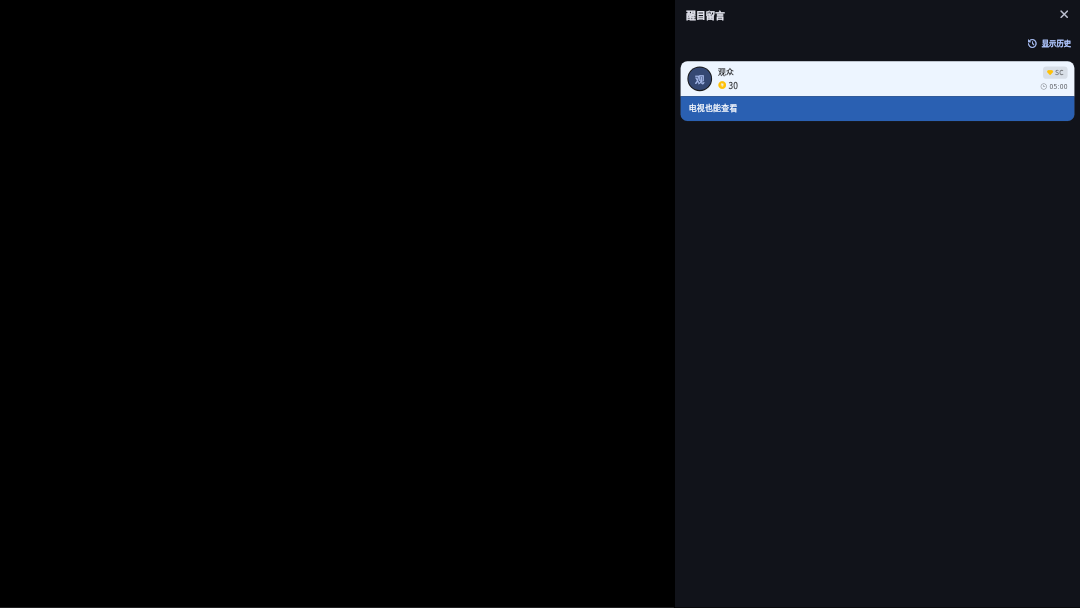
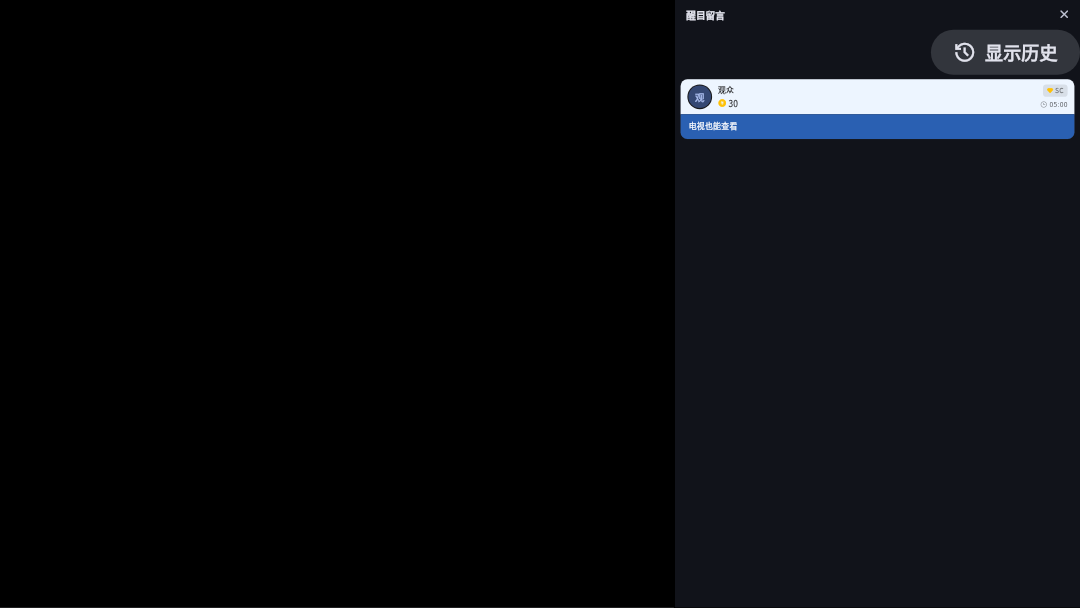
[V02.23] Make TV super-chat history reachable with the remote

Changed region(s): [[0.6111, 0.0312, 1.0, 0.25]]

diff --git a/apps/pure_live/lib/tv/room/tv_super_chat_panel.dart b/apps/pure_live/lib/tv/room/tv_super_chat_panel.dart
@@ -1,8 +1,11 @@
 import 'package:flutter/material.dart';
 import 'package:flutter/services.dart';
+import 'package:live_ui/live_ui.dart';
 import 'package:pure_live/features/live_play/danmaku/super_chat_panel.dart';
 import 'package:pure_live/features/live_play/logic/room_controller.dart';
+import 'package:pure_live/i18n/i18n.dart';
 import 'package:pure_live/tv/tv_theme.dart';
+import 'package:pure_live/tv/widgets/tv_button.dart';
 
 /// The same super-chat panel with remote scrolling, without channel keys.
 class TvSuperChatPanel extends StatefulWidget {
@@ -24,19 +27,30 @@ class TvSuperChatPanel extends StatefulWidget {
 
 class _TvSuperChatPanelState extends State<TvSuperChatPanel> {
   final ScrollController _scroll = ScrollController();
+  final FocusNode _history = FocusNode(debugLabel: 'tv super chat history');
 
   @override
   void dispose() {
     _scroll.dispose();
+    _history.dispose();
     super.dispose();
   }
 
   KeyEventResult _key(FocusNode node, KeyEvent event) {
     if (event is KeyUpEvent) return KeyEventResult.ignored;
     final key = event.logicalKey;
+    if (key == LogicalKeyboardKey.arrowLeft || key == LogicalKeyboardKey.arrowRight) {
+      _history.requestFocus();
+      return KeyEventResult.handled;
+    }
     final down = key == LogicalKeyboardKey.arrowDown || key == LogicalKeyboardKey.pageDown;
     final up = key == LogicalKeyboardKey.arrowUp || key == LogicalKeyboardKey.pageUp;
     if (!down && !up) return KeyEventResult.ignored;
+    if (up && (!_scroll.hasClients || _scroll.offset == 0)) {
+      _history.requestFocus();
+      return KeyEventResult.handled;
+    }
+    widget.focusNode?.requestFocus();
     if (_scroll.hasClients) {
       final page = key == LogicalKeyboardKey.pageDown || key == LogicalKeyboardKey.pageUp;
       final step = page ? _scroll.position.viewportDimension * 0.8 : 120.0;
@@ -57,6 +71,13 @@ class _TvSuperChatPanelState extends State<TvSuperChatPanel> {
         key: const ValueKey('panel-super-chats'),
         controller: widget.controller,
         scrollController: _scroll,
+        historyControlBuilder: (shown, toggle) => TvButton(
+          key: const ValueKey('super-chat-history-toggle'),
+          focusNode: _history,
+          label: i18n(shown ? 'super_chat_hide_history' : 'super_chat_show_history'),
+          icon: AppIcons.watchHistory,
+          onTap: toggle,
+        ),
         onClose: widget.onClose,
       ),
     ),

diff --git a/apps/pure_live/lib/features/live_play/danmaku/super_chats.dart b/apps/pure_live/lib/features/live_play/danmaku/super_chats.dart
@@ -29,6 +29,7 @@ class SuperChatList extends StatefulWidget {
     required this.now,
     this.history,
     this.scrollController,
+    this.historyControlBuilder,
     this.platformName = '',
     this.platformHasSuperChats = true,
     super.key,
@@ -42,6 +43,9 @@ class SuperChatList extends StatefulWidget {
 
   /// Optional external scrolling, for example a TV remote's arrow keys.
   final ScrollController? scrollController;
+
+  /// Optional input-specific control; the list still owns history visibility.
+  final Widget Function(bool shown, VoidCallback toggle)? historyControlBuilder;
 
   /// The clock.
   final DateTime Function() now;
@@ -125,12 +129,14 @@ class _SuperChatListState extends State<SuperChatList> {
       children: [
         Align(
           alignment: Alignment.centerRight,
-          child: TextButton.icon(
-            key: const ValueKey('super-chat-history-toggle'),
-            onPressed: () => setState(() => _showHistory = !_showHistory),
-            icon: const Icon(AppIcons.watchHistory, size: 18),
-            label: Text(i18n(_showHistory ? 'super_chat_hide_history' : 'super_chat_show_history')),
-          ),
+          child:
+              widget.historyControlBuilder?.call(_showHistory, () => setState(() => _showHistory = !_showHistory)) ??
+              TextButton.icon(
+                key: const ValueKey('super-chat-history-toggle'),
+                onPressed: () => setState(() => _showHistory = !_showHistory),
+                icon: const Icon(AppIcons.watchHistory, size: 18),
+                label: Text(i18n(_showHistory ? 'super_chat_hide_history' : 'super_chat_show_history')),
+              ),
         ),
         Expanded(child: body),
       ],

diff --git a/apps/pure_live/lib/features/live_play/danmaku/super_chat_panel.dart b/apps/pure_live/lib/features/live_play/danmaku/super_chat_panel.dart
@@ -15,6 +15,7 @@ class RoomSuperChatPanel extends StatelessWidget {
     required this.onClose,
     this.dragToClose = false,
     this.scrollController,
+    this.historyControlBuilder,
     super.key,
   });
 
@@ -30,6 +31,9 @@ class RoomSuperChatPanel extends StatelessWidget {
   /// Optional external scrolling, used by the TV remote.
   final ScrollController? scrollController;
 
+  /// Optional input-specific control for the list's own history switch.
+  final Widget Function(bool shown, VoidCallback toggle)? historyControlBuilder;
+
   @override
   Widget build(BuildContext context) => RoomSidePanel(
     title: i18n('super_chat'),
@@ -43,6 +47,7 @@ class RoomSuperChatPanel extends StatelessWidget {
         messages: messages.$1,
         history: messages.$2,
         scrollController: scrollController,
+        historyControlBuilder: historyControlBuilder,
         now: controller.now,
         platformName: platformName(controller.site.id, fallback: controller.site.name),
         platformHasSuperChats: controller.site.hasSuperChats,

diff --git a/apps/pure_live/test/tv/tv_test.dart b/apps/pure_live/test/tv/tv_test.dart
@@ -225,6 +225,15 @@ void main() {
     await _press(tester, LogicalKeyboardKey.arrowDown);
     expect(room.index, index);
     expect(room.controller!.session, same(session));
+    await _press(tester, LogicalKeyboardKey.arrowUp);
+    expect(_focused, 'tv super chat history');
+    await _press(tester, LogicalKeyboardKey.select);
+    expect(find.text('隐藏历史'), findsOneWidget);
+    await _press(tester, LogicalKeyboardKey.arrowDown);
+    expect(room.index, index);
+    await _press(tester, LogicalKeyboardKey.arrowUp);
+    await _press(tester, LogicalKeyboardKey.select);
+    expect(find.text('显示历史'), findsOneWidget);
     await tester.binding.handlePopRoute();
     await _settle(tester);
     expect(find.byKey(const ValueKey('panel-super-chats')), findsNothing);

diff --git a/docs/V-需求和反馈/V02-用户反馈和issue/V02.23-issue23反馈跟进/review.md b/docs/V-需求和反馈/V02-用户反馈和issue/V02.23-issue23反馈跟进/review.md
@@ -3,3 +3,6 @@
 2026-10-23，issue #23 转入 [A07.26](../../../A-界面设计/A07-直播间界面/A07.26-全屏醒目留言入口/README.md)。
 
 实现、改前失败与改后通过证据见 [A07.26 合并审查](../../../A-界面设计/A07-直播间界面/A07.26-全屏醒目留言入口/review.md)。本轮实现已完成，状态待真机；未发布前 issue 保留开放。最终全量门禁、Apple 原生构建结果附 PR 和本机报告，不据 Widget 或模拟器声称真机验收。
+
+
+2026-10-23 补充自查：扩展同一电视回归用例，原候选版无法用方向键聚焦历史开关（tv-history-before.log 失败）。改用已有 TvButton 作为同一 SuperChatList 的开关，仅定制输入组件；列表顶部按上或左右键到历史开关，OK 切换，按下回到滚动，Back 仍先关面板；tv-history-after.log 通过。未扩大历史保留范围。首轮完整门禁主动停止以纳入此修正，最终同提交门禁另跑，不能引用首轮为通过。

diff --git a/docs/V-需求和反馈/V02-用户反馈和issue/V02.23-issue23反馈跟进/record.md b/docs/V-需求和反馈/V02-用户反馈和issue/V02.23-issue23反馈跟进/record.md
@@ -3,3 +3,6 @@
 2026-10-23，issue #23 转入 [A07.26](../../../A-界面设计/A07-直播间界面/A07.26-全屏醒目留言入口/README.md)。
 
 实现、改前失败与改后通过证据见 [A07.26 记录](../../../A-界面设计/A07-直播间界面/A07.26-全屏醒目留言入口/record.md)。本轮实现已完成，状态待真机；未发布前 issue 保留开放。最终全量门禁、Apple 原生构建结果附 PR 和本机报告，不据 Widget 或模拟器声称真机验收。
+
+
+2026-10-23 补充自查：扩展同一电视回归用例，原候选版无法用方向键聚焦历史开关（tv-history-before.log 失败）。改用已有 TvButton 作为同一 SuperChatList 的开关，仅定制输入组件；列表顶部按上或左右键到历史开关，OK 切换，按下回到滚动，Back 仍先关面板；tv-history-after.log 通过。未扩大历史保留范围。首轮完整门禁主动停止以纳入此修正，最终同提交门禁另跑，不能引用首轮为通过。

diff --git a/docs/V-需求和反馈/V02-用户反馈和issue/V02.23-issue23反馈跟进/verify.md b/docs/V-需求和反馈/V02-用户反馈和issue/V02.23-issue23反馈跟进/verify.md
@@ -3,3 +3,6 @@
 2026-10-23，issue #23 转入 [A07.26](../../../A-界面设计/A07-直播间界面/A07.26-全屏醒目留言入口/README.md)。
 
 实现、改前失败与改后通过证据见 [A07.26 验证](../../../A-界面设计/A07-直播间界面/A07.26-全屏醒目留言入口/verify.md)。本轮实现已完成，状态待真机；未发布前 issue 保留开放。最终全量门禁、Apple 原生构建结果附 PR 和本机报告，不据 Widget 或模拟器声称真机验收。
+
+
+2026-10-23 补充自查：扩展同一电视回归用例，原候选版无法用方向键聚焦历史开关（tv-history-before.log 失败）。改用已有 TvButton 作为同一 SuperChatList 的开关，仅定制输入组件；列表顶部按上或左右键到历史开关，OK 切换，按下回到滚动，Back 仍先关面板；tv-history-after.log 通过。未扩大历史保留范围。首轮完整门禁主动停止以纳入此修正，最终同提交门禁另跑，不能引用首轮为通过。

diff --git a/docs/A-界面设计/A07-直播间界面/A07.26-全屏醒目留言入口/record.md b/docs/A-界面设计/A07-直播间界面/A07.26-全屏醒目留言入口/record.md
@@ -15,3 +15,6 @@
 ## 停在哪
 
 实现与定向回归完成，未发布；真机步骤见 verify.md。推送前必须运行完整门禁，提交后 Apple 原生编译和模拟器启动结果附在 PR 与本机回执；此记录不预先声称通过。未操作正式安装、原始 Claude 目录或用户账号。
+
+
+2026-10-23 补充自查：扩展同一电视回归用例，原候选版无法用方向键聚焦历史开关（tv-history-before.log 失败）。改用已有 TvButton 作为同一 SuperChatList 的开关，仅定制输入组件；列表顶部按上或左右键到历史开关，OK 切换，按下回到滚动，Back 仍先关面板；tv-history-after.log 通过。未扩大历史保留范围。首轮完整门禁主动停止以纳入此修正，最终同提交门禁另跑，不能引用首轮为通过。

diff --git a/docs/A-界面设计/A07-直播间界面/A07.26-全屏醒目留言入口/review.md b/docs/A-界面设计/A07-直播间界面/A07.26-全屏醒目留言入口/review.md
@@ -13,3 +13,6 @@
 | 合并发布 | 本轮只提交 PR；未发布前保留 issue 开放，#14/#15 不标为修复 |
 
 实现可供审查，物理设备验收和发版尚未完成。
+
+
+2026-10-23 补充自查：扩展同一电视回归用例，原候选版无法用方向键聚焦历史开关（tv-history-before.log 失败）。改用已有 TvButton 作为同一 SuperChatList 的开关，仅定制输入组件；列表顶部按上或左右键到历史开关，OK 切换，按下回到滚动，Back 仍先关面板；tv-history-after.log 通过。未扩大历史保留范围。首轮完整门禁主动停止以纳入此修正，最终同提交门禁另跑，不能引用首轮为通过。
